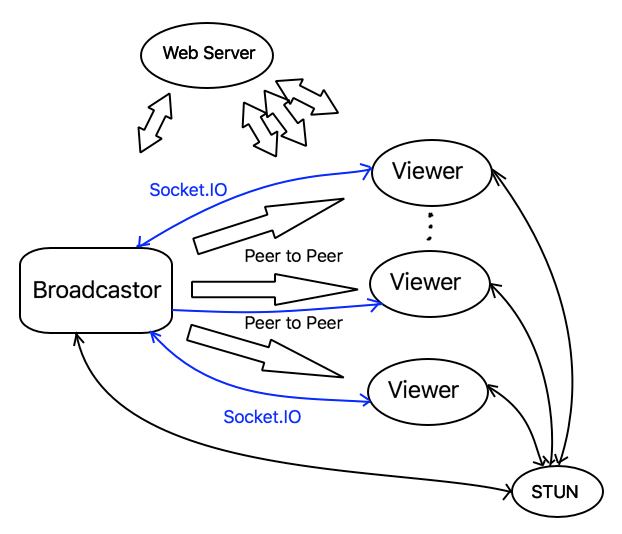
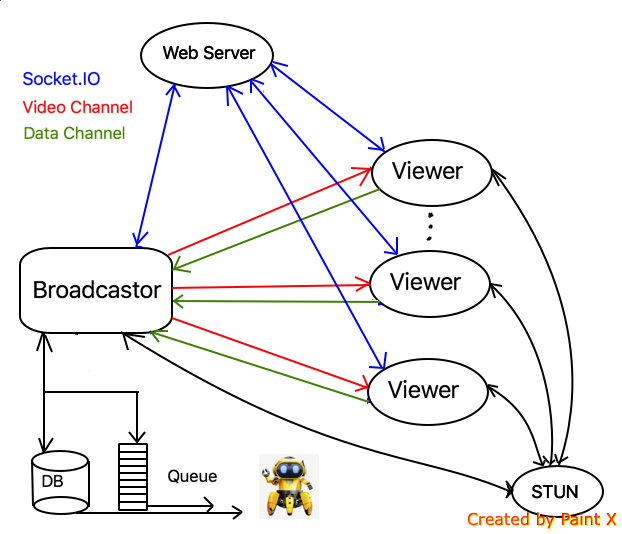
update document

diff --git a/doc/WebRTC.md b/doc/WebRTC.md
@@ -4,19 +4,16 @@
 > ### What is WebRTC?
 > ### Development Environment
 > ### Schematic diagram about high level idea
-> #### 1. Web Server
-> #### 2. STUN Server
-> #### 3. Socket.IO 
-> #### 4. WebRTC
-> ### Basic theory of WebRTC used in our project
+> ### Source code structure
+> ### Main functions in this Apps
+> ### How to use this Apps
 
 ## What is WebRTC?
 WebRTC is an open source project to enable realtime communication (Peer to Peer UDP) of audio, video and data in Web and native apps. Users can access these Web applications directly with the mainstream browsers such as Chrome, Firefox.
 
-Good [**tutorial**](https://codelabs.developers.google.com/codelabs/webrtc-web/#0) and [**base example**](https://github.com/xzhan211/webrtc-video-broadcast) are here.
+Good tutorial is [**here**](https://codelabs.developers.google.com/codelabs/webrtc-web/#0).
 
-Our Lab project source code is [**here**](https://github.com/xzhan211/Lab_WebRTC).
-Demo is [**here**](https://coolala.xyz).
+Source code and demo are [**here**](https://github.com/bingsyslab/WebRTC_Communication).
 
 
 There are four most important part about WebRTC:
@@ -24,12 +21,12 @@ There are four most important part about WebRTC:
 + [**getUserMedia()**](https://webrtc.github.io/samples/src/content/getusermedia/gum/): capture audio and video from local PC. Good source [**here**](https://addpipe.com/blog/getusermedia-video-constraints/)  **\*\*\***
 + [**MediaRecorder**](https://webrtc.github.io/samples/src/content/getusermedia/record/): record audio and video. 
 + [**RTCPeerConnection**](https://webrtc.github.io/samples/src/content/peerconnection/pc1/): stream audio and video between users. **\*\*\***
-+ [**RTCDataChannel**](https://webrtc.github.io/samples/src/content/datachannel/basic/): stream data between users.
++ [**RTCDataChannel**](https://webrtc.github.io/samples/src/content/datachannel/basic/): stream data between users.**\*\*\***
 
 Note: "**\*\*\***" means heavily used in our project.
 
 ## Development Environment
-**Type:** Front End
+**Type:** Pure Front End
 
 **Language:** JavaScript, HTML, CSS
 
@@ -37,7 +34,7 @@ Note: "**\*\*\***" means heavily used in our project.
 
 **Public Server:** Google STUN Server
 
-**Other:** Socket.IO
+**Other:** Socket.IO, Peer.js
 
 
 
@@ -47,18 +44,232 @@ Note: "**\*\*\***" means heavily used in our project.
 ![](pictures/high-level.png)
 
 ### Key Conception
-+ **Broadcastor:** Robot side, take the 360 live video stream. As a broadcastor, it will pass the video stream to multi-viewers. The broadcastor only sends video, doesn't receive any video. 
-+ **Viewer:** User side application, it can only receive video from broadcastor side. Multi-Viewers are supported.
-+ **Web Server:** In this project, neither broadcastor nor viewer side need to run any server program. The web server is just set on some third party VPN ([**current VPN**](https://coolala.xyz) is my private one, I will set a new one for Lab laterly), both broadcastor and viewer can just access the web server to grab broadcastor/viewer side code(.js/.html/.css).
++ **Broadcaster:** Robot side, take the 360 live video stream. As a broadcaster, it will pass the video stream to multi-viewers and receive data feedback from viewers.
++ **Viewer:** User side application, it will receive video from broadcaster side and send data to the broadcaster. Multi-Viewers are supported.
++ **Web Server:** In this project, neither broadcaster nor viewer side need to run any server program. The web server is just set on some third party VPN ([**current VPN**](https://coolala.xyz) is my private one), both broadcaster and viewer can just access the web server to grab broadcaster/viewer side code(.js/.html/.css). Another function run on web server is socket.io, it is using for swaping signaling data between broadcaster and viewers.
 + **STUN Server:** WebRTC is designed to work peer-to-peer, so users can connect by the most direct route possible. Before peer-to-peer work, users should use STUN server to get their own IP address. In this project, Google STUN server is used. In another word, STUN servers are used by both clients to determine their IP address as visible by the global Internet. If both the peers are behind the same NAT , STUN settings are not needed since they are anyways reachable form each other . STUN effectively comes into play when the peers are on different networks. 
 + **Socket.IO:** It is a JavaScript library for realtime web applications. It enables realtime, bi-directional communication between web clients and servers. It has two parts: a client-side library that runs in the browser, and a server-side library for Node.js. Both components have a nearly identical API. Like Node.js, it is event-driven. **Socket.IO is using for Singling in our project**.
-+ **Signaling:** It is the process of coordinating communication. In order for a WebRTC application to set up a 'call', broadcastor and viewer need to exchange information such IP address, media metadata (codecs settings, bandwitdth...), key data for secure connections etc. **Singling is implemented by Socket.IO in our project**.
++ **PeerJS:** It wraps the browser's WebRTC implementation to provide a complete, configurable, and easy-to-use peer-to-peer connection API. Equipped with nothing but an ID, a peer can create a P2P data or media stream connection to a remote peer.
++ **Signaling:** It is the process of coordinating communication. In order for a WebRTC application to set up a 'call', broadcaster and viewer need to exchange information such IP address, media metadata (codecs settings, bandwitdth...), key data for secure connections etc. **Singling is implemented by Socket.IO in our project**.
 + **TURN Server:** TURN servers to function as relay servers in case peer-to-peer communication fails. **TURN server is not used in our project**.
 + **Peer to Peer data:** Using UDP protocal.
 ![](pictures/p2p.png)
 + **Singling Data:** Using STUN protocal.
 ![](pictures/stun.png)
 
+## Source code structure
+### Server side
++ **server.js:** Contains two functions. First one is https service(express.js); another one is server side signaling function(socket IO).
+
+### Common part
++ **index.html:** home page of this Apps (https://coolala.xyz)
++ **view.js:** global configuration, such as socket io, stun server setting.
++ **credentials.js:** https credentials code
++ **certificate/ca.cer, csr.pem, private.pem:** https credentials
+
+### broadcaster side
++ **broadcast.html:** broadcaster side webpage layout.
++ **broadcast.js:** implement all the functions on broadcaster webpage(except database CRUD and data channel).
++ **indexedDBFunction.js:** NoSQL database CRUD API **receiveDemo.js:** implement receive function of data channel with database API and Queue. 
++ **writeFile.js:** download function
++ **FileSaver.js:** download function
+
+### viewer side 
++ **watch.html:** viewer side(no rendering) webpage layout.
++ **watch.js:** implement basic video display(no rendering) function.
++ **watch-360.html:** viewer side(with rendering) webpage layout.
++ **watch-360.js:** implement video display(with rendering) function.
++ **three.js:** required file rendering function
++ **sendDemo.js:** implement sender API of data channel.
++ **DeviceOrientationControls.js:** viewer(laptop/mobile) side orientation controller.
++ **CSS3DRenderer.js:** required file rendering function
+
+## Main functions in this Apps
+### Peer to Peer Video Channel(Socket IO)
+The flow of creating a webRTC data channel is easy, but the webRTC API is not easy to use. About the flow, please check official [**tutorial**](https://codelabs.developers.google.com/codelabs/webrtc-web/#0). The most important part is signaling. Here we use Socket.IO to implement signaling. The key idea about socket.IO is how to send data from one peer to another.
+![](pictures/socketio1.png)
+In VPS(node.js), we run server part of socket.io. In peer(in our case, it is browser), we run client part of socket.io. Once we want to send data from peer1 to peer2, data is sent to VPS first, then sent to peer2.
+
+server (Eg. server.js):
+
+	io.sockets.on('connection', function (socket) {
+		socket.on('candidate', function (id, message) {
+    		socket.to(id).emit('candidate', id, message);
+    	});
+	}
+    
+peer1 (Eg. broadcast.js):
+
+	socket.emit('candidate', id, message);
+
+peer2 (Eg. watch.js):
+	
+	socket.on('candidate', function(id, candidate) {
+		console.log('id and candidate info :' + id + " ::: " + candidate);
+	});
+
+Initialization of socket IO, please check official turtual and case in our project.
+
+### Peer to Peer Data Channel(Peerjs)
+Just like I mentioned before, the flow/logic of creating webRTC data/video channel is easy, but the original API of webRTC is hard to use. Using Peerjs, it is easy to implement a channel. Let's say there are two peers, peerA and peerB. We want to create a data channel between these two peers. There are only two step we need to do. One is using socket IO to send peerA's peer id to peerB. Then, using Peerjs API to create data channel. Done!
+
+
+
+peerA (establish data channel, eg. receiveDemo.js):
+	
+	let peer = new Peer();
+	peer.on('open', function(){
+		socket.emit('set_broadcast_id');
+		socket.on('request_broadcast_id', function(data){
+			socket.emit('peerId_test', peer.id, '/#'+data);
+		});
+	});
+
+peerB (establish data channel, eg. sendDemo.js):
+
+	let peer = new Peer();
+	let conn = null;
+	
+	setTimeout(function(){
+		localPeerId = socket.id;
+		socket.emit('request_broadcast_id', socket.id);
+	}, 1000); // 1s delay is trick. Timing consideration.
+	
+	socket.on('peerId_test', function(data) {
+      conn = peer.connect(data);
+      conn.on('open', () => {
+      	console.log("Data channel ready!");
+      });
+	});
+	
+PeerA (receive data, receiveDemo.js):
+	
+	peer.on('connection', (conn) => {
+		conn.on('data', (data) => {
+			let obj = JSON.parse(data);
+    	}
+    });
+
+
+PeerB (send data, eg. watch-360.js):
+
+	conn.send(JSON.stringify(obj));
+
+###IndexedDB CRUD
+DB API is defined in indexedDBFunction.js. In order to save data into DB fast, no index is used. Auto increased primary key is used, but PK is transparent for user. We don't care the value of primary key, it is only used for create database. There are two kind of data structure in this DB. 
+
+DB API contains:
+
+	async function indexedDBRead(tableName, keyValue);
+	async function indexedDBReadAll(tableName);
+	async function indexedDBAdd(tableName, obj);
+	async function indexedDBRemove(tableName, keyValue);
+	async function indexedDBRemoveAll(tableName);
+	async function indexedDBDownload(tableName); 
+Note: We don't use DB API in the current project, because we found the way we use this DB is more close to the way we use a Array structure.
+But we can still use this DB API in the future :)
+
+data from laptop: 
+
+	{"time":1559000238943,"yaw":1.5707963267948966,"pitch":0,"peerId":"VOFinmCHcEyIchYiAAAT"}
+	
+data from mobile:
+
+	{"time":1559000093327,"quaternion":[0.24739492670010083,0.5768548100699484,0.33931113047541106,-0.7006441572422577],"peerId":"G3JreKiPzsO8y53iAAAR"}
+	
+### Buffer Queue
+In receiveDemo.js, we implement a FIFO queue. Consider the robot have a relative low read-queue rate but viewers have a higher write-queue rate, we design below queue API.
+
+Queue API:
+	
+	function Queue(){
+		this.data = [];
+	}
+	
+	Queue.prototype.addItem = function(record){		this.data.unshift(record);
+	}
+
+	Queue.prototype.getItem = function(){
+		return this.data.pop();
+	}
+	
+	Queue.prototype.checkFirstItem = function(){
+		return this.data[0];
+	}
+
+	Queue.prototype.size = function(){
+		return this.data.length;
+	}
+
+	const q = new Queue();
+	
+Using this queue with a limited size, we can block the addItem function if the queue size reach the limition. In this way, we can make sure the robot can read the relative new data from the queue.
+
+### Download 
+
+html file (eg. broadcast.html):
+	
+	<script type="text/javascript" src="/package/FileSaver.js" charset="utf-8"></script>
+	
+javascript file (eg. indexedDBFunction.js):
+	
+	let buffer1 = new Blob([largeArr_laptop], {type: "text/plain;charset=utf-8"});
+    saveAs(buffer1, "laptopData.txt");
+    
+
+
+### Rendering 
+Not my part.
+
+
+## How to use this Apps
+
+####Step 1:
+![](pictures/use_step1.png)
+Open boradcaster webpage first.
+
+Then turn on the video. (Different devices have different camera performance, select supported resolution)
+
+####Step 2:
+![](pictures/use_step2.png)
+Open viewer webpage. (Support multi-users).
+The viewer button leads to the default viewer webpage (simply display the vedio without rendering, no data feedback)
+
+Now, data channel can be established automatically.
+Once data channel is ready, you will see some information appears in Chrome debug tool (console tag).
+
+####Step 3:
+![](pictures/use_step3.png)
+If you want to play with the viewer with rendering and data feedback,
+it is necessary to modify the viewer side url to:
+	
+	https://coolala.xyz/watch-360.html
+	
+Once you refresh the new webpage, you will see the same information appears in Chrome debug tool (just like Step 2).
+
+Now, you can play with your device, dragging the video or moving the smartphone, related data are sending back from viewers to broadcaster constantly.
+
+If you want to stop the viewer side, the best way is close the current viewer webpage.
+
+
+####Step 4:
+![](pictures/use_step4.png)
+If you want to download the related data which the viewers send back, please click the download button. Follow the hint to select the correct data you want to download. We only support two kind of data now, "laptop" or "mobile". Make sure your enter is correct.
+
+####Step 5:
+![](pictures/use_step5.png)
+
+Once download finished, some information can be seen in the broadcaster side console tag. 
+
+####Step 6:
+![](pictures/use_step6.png)
+Got the data, done!
+
+###Note:
+1. In this project, we don't use DB now. The download data is from an array.
+2. After clicking the download button, all the data will be lost after download.
+3. Once reloading the broadcaster side webpage, all the data will be lost, no matter you click the download button or not.
+4. It is the first version of this document, not the final one. I will keep improving it. (I am sure some typo in it...)
 
 
 
